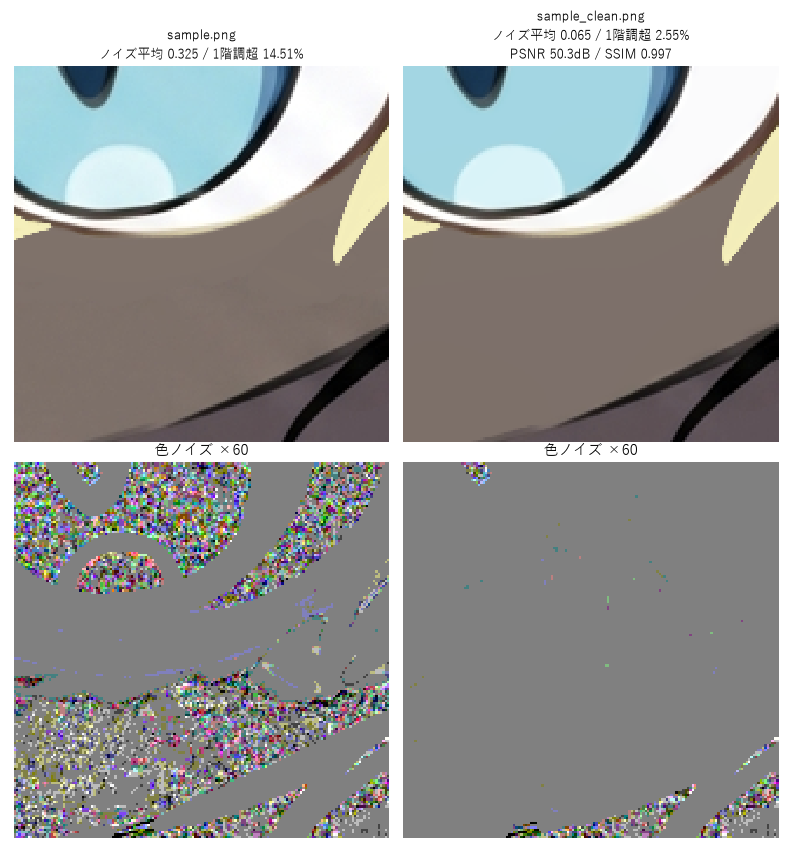
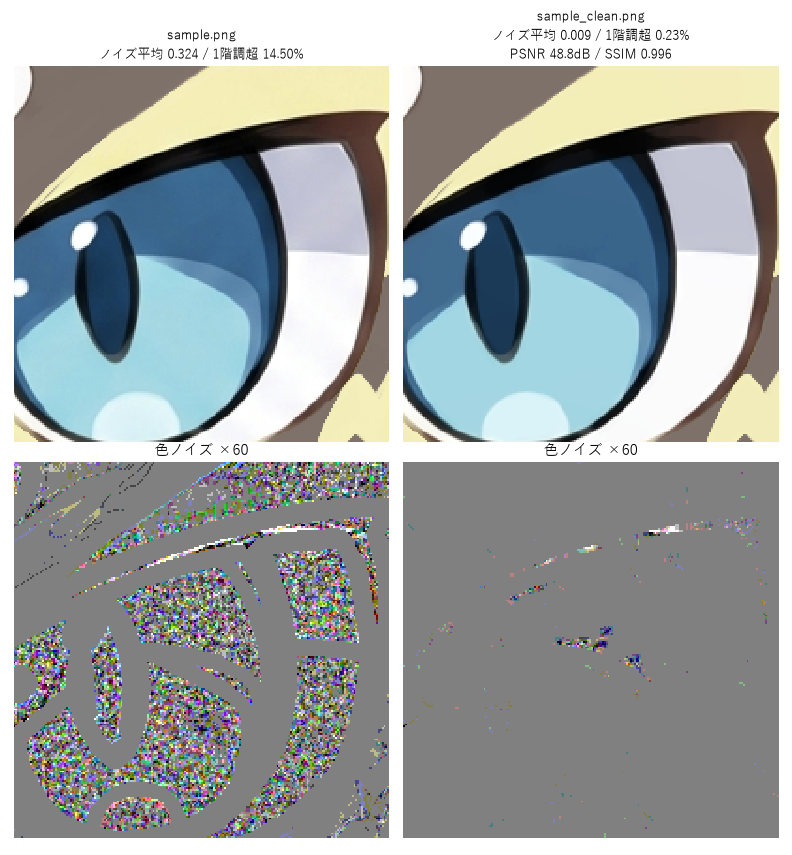
線の判定を見直し、ノイズの注意を処理後の結果で出す
暗い画素をすべて線とみなしていたため、紺などの暗いベタ塗りが丸ごと保護され、処理されていなかった。
暗い部分は細いものだけを線とし、広い暗い面は塗りとして処理する。
輪郭の強さはノイズをならしてから測り、JPEG などの強いノイズを輪郭と間違えないようにする。
標準の設定で、サンプルはノイズ平均 0.065 → 0.009、JPEG 由来の Gemini の画像は 0.598 → 0.004 になる。
「ノイズが大きすぎます」は元画像だけで判断していたので、処理した後も多く残るときだけ出し、
線とみなした範囲が広すぎる場合は、その旨と動かす設定を案内する。

diff --git a/cleaner/denoise.py b/cleaner/denoise.py
@@ -21,15 +21,25 @@ from PIL import Image, PngImagePlugin
 
 
 DEFAULT_LAM = 0.002    # L0の強さ
-DEFAULT_DARK = 90      # 線とみなす暗さ（これより暗い画素）
+DEFAULT_DARK = 90      # 線とみなす暗さ（これより暗い細い部分）
 DEFAULT_GRAD = 120     # 線とみなす勾配の強さ
+LINE_MAX_WIDTH = 9     # 暗い部分のうち、これより太いものは線でなく塗りとみなす（画素）
+GRAD_PRESMOOTH = 3     # 勾配を測る前にノイズをならすメディアンの大きさ（ノイズを輪郭と間違えない）
 
 
 def line_mask(rgb, dark=DEFAULT_DARK, grad_th=DEFAULT_GRAD):
-    """線（暗い画素＋強い勾配）を検出し、0〜1の重みで返す"""
-    g = cv2.cvtColor(rgb, cv2.COLOR_RGB2GRAY).astype(np.float32)
-    grad = cv2.magnitude(cv2.Sobel(g, cv2.CV_32F, 1, 0), cv2.Sobel(g, cv2.CV_32F, 0, 1))
-    m = ((g < dark) | (grad > grad_th)).astype(np.uint8)
+    """線を検出し、0〜1の重みで返す
+
+    線とみなすのは、暗い部分のうち細いもの（広い暗い面は塗りとして処理する）と、輪郭の強いところ。
+    輪郭の強さはノイズをならしてから測る（JPEG などの強いノイズを輪郭と間違えない）
+    """
+    g = cv2.cvtColor(rgb, cv2.COLOR_RGB2GRAY)
+    smooth_g = cv2.medianBlur(g, GRAD_PRESMOOTH).astype(np.float32)
+    grad = cv2.magnitude(cv2.Sobel(smooth_g, cv2.CV_32F, 1, 0), cv2.Sobel(smooth_g, cv2.CV_32F, 0, 1))
+    dark_px = (g < dark).astype(np.uint8)
+    wide = cv2.morphologyEx(dark_px, cv2.MORPH_OPEN,
+                            cv2.getStructuringElement(cv2.MORPH_ELLIPSE, (LINE_MAX_WIDTH, LINE_MAX_WIDTH)))
+    m = ((dark_px & (1 - wide)) | (grad > grad_th)).astype(np.uint8)
     m = cv2.dilate(m, np.ones((3, 3), np.uint8))               # アンチエイリアス部も保護
     return cv2.GaussianBlur(m.astype(np.float32), (3, 3), 0)   # 境目をなじませる
 

diff --git a/tests/test_line_mask.py b/tests/test_line_mask.py
@@ -1,0 +1,43 @@
+"""線の判定：細い暗い線は守り、広い暗い面とノイズは線とみなさない"""
+import sys
+from pathlib import Path
+
+import numpy as np
+
+sys.path.insert(0, str(Path(__file__).resolve().parent.parent))
+from cleaner.denoise import clean, line_mask  # noqa: E402
+
+
+def _canvas():
+    return np.full((120, 120, 3), 230, np.uint8)
+
+
+def test_thin_dark_line_is_protected():
+    img = _canvas()
+    img[:, 58:61] = 20   # 3画素幅の黒い線
+    m = line_mask(img)
+    assert m[60, 59] > 0.9
+
+
+def test_wide_dark_fill_is_not_a_line():
+    img = _canvas()
+    img[20:100, 20:100] = (22, 33, 62)   # 紺色のベタ塗り
+    m = line_mask(img)
+    assert m[60, 60] < 0.1                     # 面の中は塗りとして処理する
+    assert m[20, 60] > 0.5                     # 面の縁は輪郭として守る
+
+
+def test_noise_is_not_mistaken_for_lines():
+    """JPEG のような強いノイズのある平らな面を、線とみなさない"""
+    rng = np.random.default_rng(0)
+    img = np.clip(_canvas().astype(int) + rng.normal(0, 6, (120, 120, 3)), 0, 255).astype(np.uint8)
+    assert (line_mask(img) > 0.5).mean() < 0.05
+
+
+def test_noisy_dark_fill_gets_cleaned():
+    rng = np.random.default_rng(1)
+    base = np.zeros((120, 120, 3), np.uint8) + np.array([22, 33, 62], np.uint8)
+    img = np.clip(base.astype(int) + rng.normal(0, 3, base.shape), 0, 255).astype(np.uint8)
+    out = clean(img)
+    spread = lambda a: a[20:100, 20:100].reshape(-1, 3).std(0).max()   # 色ごとのばらつき
+    assert spread(out) < spread(img) / 3

diff --git a/gui/panel.py b/gui/panel.py
@@ -15,7 +15,7 @@ DARK_MAX = 255
 GRAD_MAX = 400
 TOLERANCE_MAX = 64
 LINE_HELP = ('線と判断した部分は処理せず、元のまま残します。\n'
-             '暗さか輪郭の強さがしきい値を超えた画素を線とみなします。')
+             '暗くて細い部分と、輪郭の強い部分を線とみなします。')
 NOISE_HELP = ('ノイズの見え方だけを切り替えます。\n'
               '保存する画像や数値は変わりません。')
 CUTOUT_HELP = ('縁とつながった、縁と同じ色の部分を透明にします。\n'
@@ -97,7 +97,7 @@ class Panel(QFrame):
         # 線の保護
         self.dark = SliderRow('線とみなす暗さ', 0, DARK_MAX, DEFAULT_DARK)
         self.grad = SliderRow('線とみなす輪郭の強さ', 0, GRAD_MAX, DEFAULT_GRAD)
-        self.dark.setToolTip('これより暗い画素を線として残します')
+        self.dark.setToolTip('これより暗い細い部分を線として残します')
         self.grad.setToolTip('色の変わり方がこれより急な画素を線として残します')
         for row in (self.dark, self.grad):
             row.changed.connect(lambda _, r=row: self.changed.emit(r.slider.isSliderDown()))

diff --git a/gui/worker.py b/gui/worker.py
@@ -133,6 +133,7 @@ class FullProcessor:
                 'mean': mean, 'over': over,
                 'ssim': ssim(a, b),
                 'psnr': psnr(a, b),   # 1画素も変わらなかった場合は None
+                'line_ratio': float((mask > 0.5).mean()),   # 線とみなして処理しなかった割合
             },
         }
 

diff --git a/gui/widgets.py b/gui/widgets.py
@@ -79,6 +79,10 @@ class WarnNote(QWidget):
         lay.addWidget(self.body)
         self.body.hide()
 
+    def set_content(self, title, text):
+        self.head.setText(title)
+        self.body.setText(text)
+
     def reset(self):
         self.head.setChecked(False)
 

diff --git a/docs/guide.md b/docs/guide.md
@@ -39,7 +39,7 @@
 
 ## ノイズ除去
 
-1. 暗い画素と、色の変わり方が急な画素を線とみなし、元のまま残す（線の保護）
+1. 暗くて細い部分と、色の変わり方が急な部分を線とみなし、元のまま残す（線の保護）。広い暗い面は塗りとして処理し、輪郭の強さはノイズをならしてから測る
 2. 線以外に L0 スムージングをかけ、細かな色ムラを平坦化する（方式「面を平坦化」）
 3. 境目をなじませて合成する
 
@@ -54,9 +54,9 @@
 | | ノイズ平均 | 1階調を超える画素 | SSIM（元画像比） |
 |---|---|---|---|
 | 元画像 | 0.324 | 14.50% | — |
-| 標準（強さ 0.002） | 0.065 | 2.55% | 0.997 |
+| 標準（強さ 0.002） | 0.009 | 0.23% | 0.996 |
 
-ノイズ平均が 0.5 を超えるような強いカラーノイズは対象外で、左に注意が出る。線の揺らぎや太さは変わらない。
+処理した後もノイズ平均が 0.5 を超えるときは、左に注意が出る（原因と、動かすとよい設定も出す）。線の揺らぎや太さは変わらない。
 
 開ける画像は4000万画素（8K）まで。1500万画素ほどの画像では、全体の処理に1分ほどかかる。
 
